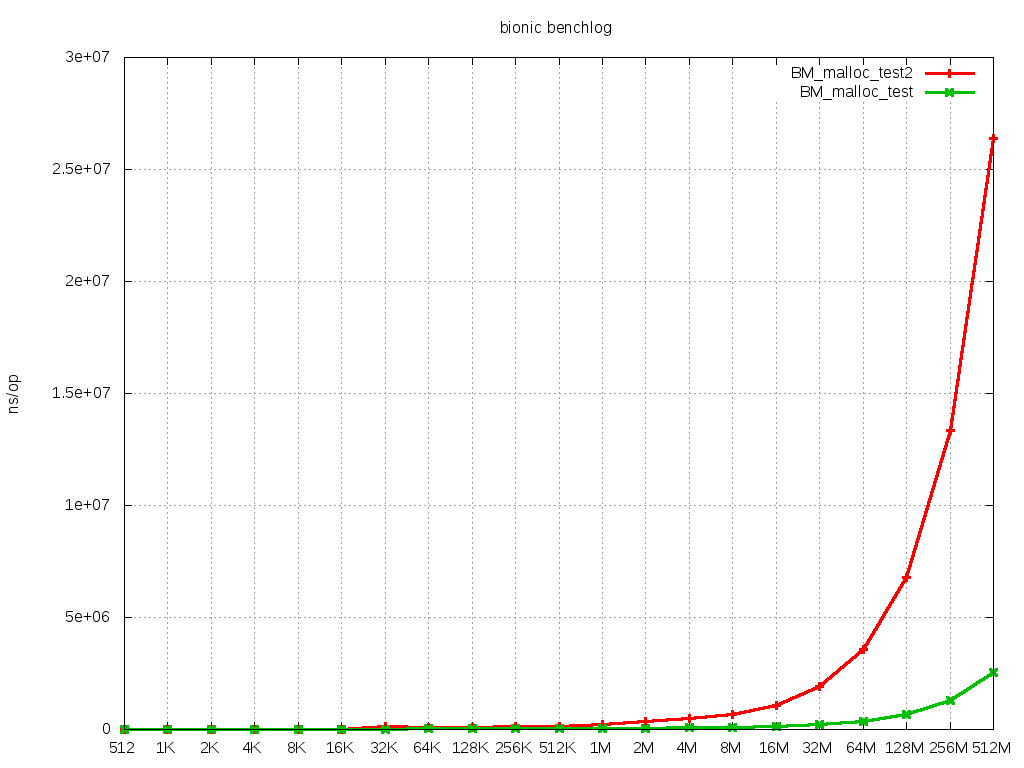
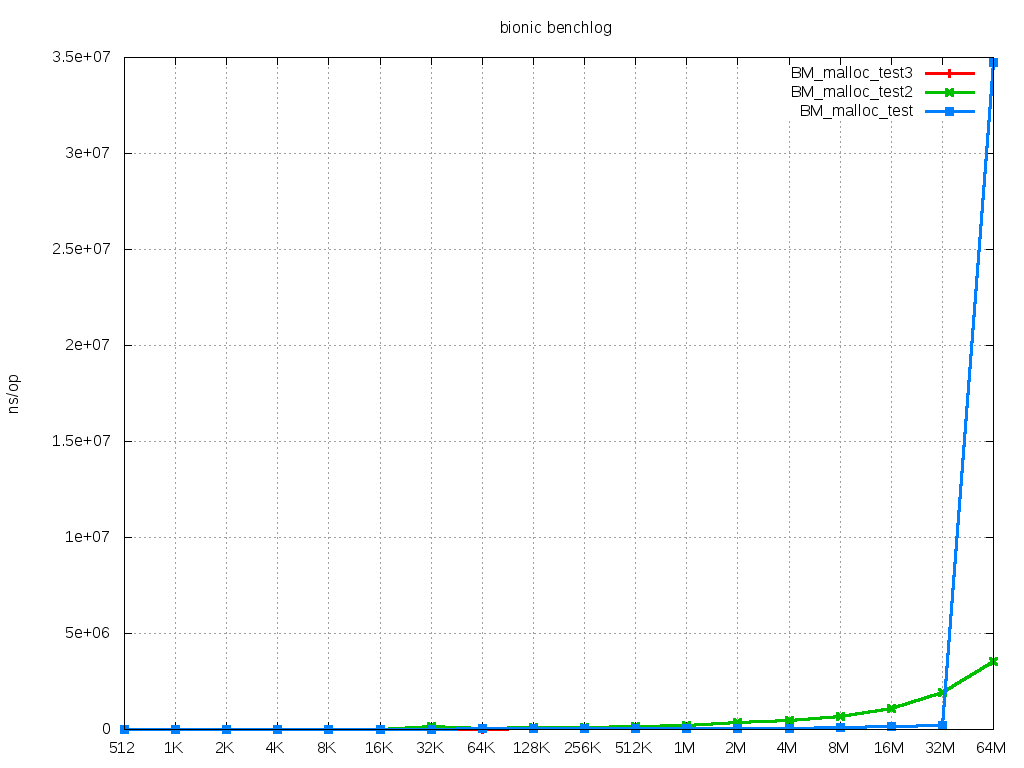
update benchmarks

diff --git a/benchmark_main.cpp b/benchmark_main.cpp
@@ -28,12 +28,16 @@
 static int64_t g_bytes_processed;
 static int64_t g_benchmark_total_time_ns;
 static int64_t g_benchmark_start_time_ns;
+static int64_t *benchmark_each_time_ns;
 
 typedef std::map<std::string, ::testing::Benchmark*> BenchmarkMap;
 typedef BenchmarkMap::iterator BenchmarkMapIt;
 static BenchmarkMap g_benchmarks;
 static int g_name_column_width = 20;
 bool plot = false;
+static int Iterations = 1;
+static int con_iterations = 0;
+static int count = 0;
 
 static int Round(int n) {
   int base = 1;
@@ -73,8 +77,11 @@ bool Benchmark::ShouldRun(int argc, char* argv[]) {
   }
 
   for (int i = 1 ; i < argc ; i++) {
-	if(strcmp(argv[i], "--plot") == 0) 
+	if(strcmp(argv[i], "--plot") == 0) {
 		plot = true;	// With plot arguments.
+		if(argc == 2)
+			return true;
+	}
   }
   // Otherwise, we interpret each argument as a regular expression and
   // see if any of our benchmarks match.
@@ -91,6 +98,7 @@ bool Benchmark::ShouldRun(int argc, char* argv[]) {
       return true;
     }
   }
+  
   return false;
 }
 
@@ -117,6 +125,9 @@ void Benchmark::Run() {
     }
     for (size_t i = 0; i < args_.size(); ++i) {
       RunWithArg(args_[i]);
+	  count = 0;
+	  con_iterations = 0;
+//	  delete benchmark_each_time_ns;
     }
   }
 }
@@ -125,11 +136,17 @@ void Benchmark::RunRepeatedlyWithArg(int iterations, int arg) {
   g_bytes_processed = 0;
   g_benchmark_total_time_ns = 0;
   g_benchmark_start_time_ns = NanoTime();
+
+	count = 0 ;
+	Iterations = iterations;
+	benchmark_each_time_ns = new int64_t[Iterations];
+
   if (fn_ != NULL) {
     fn_(iterations);
   } else {
     fn_range_(iterations, arg);
   }
+
   if (g_benchmark_start_time_ns != 0) {
     g_benchmark_total_time_ns += NanoTime() - g_benchmark_start_time_ns;
   }
@@ -138,6 +155,10 @@ void Benchmark::RunRepeatedlyWithArg(int iterations, int arg) {
 void Benchmark::RunWithArg(int arg) {
   // run once in case it's expensive
   int iterations = 1;
+
+//	Iterations = iterations;
+//	benchmark_each_time_ns = new int64_t[Iterations];
+
   RunRepeatedlyWithArg(iterations, arg);
   while (g_benchmark_total_time_ns < 1e9 && iterations < 1e9) {
     int last = iterations;
@@ -148,6 +169,10 @@ void Benchmark::RunWithArg(int arg) {
     }
     iterations = std::max(last + 1, std::min(iterations + iterations/2, 100*last));
     iterations = Round(iterations);
+
+//	Iterations = iterations;
+//	benchmark_each_time_ns = new int64_t[Iterations];
+
     RunRepeatedlyWithArg(iterations, arg);
   }
 
@@ -176,7 +201,13 @@ void Benchmark::RunWithArg(int arg) {
   } else {
     snprintf(full_name, sizeof(full_name), "%s", name_);
   }
+//	printf("before iterations : %d\n", iterations);
 
+	/* calculate standard diviasion. */
+	Standard();
+	iterations = con_iterations;
+
+//	printf("total time ns is %10" PRId64 "\n", g_benchmark_total_time_ns);
   printf("%-*s %10d %10" PRId64 "%s\n", g_name_column_width, full_name,
          iterations, g_benchmark_total_time_ns/iterations, throughput);
 	if(plot)
@@ -192,8 +223,33 @@ void SetBenchmarkBytesProcessed(int64_t x) {
   g_bytes_processed = x;
 }
 
+void StopBenchmarkTimingWithArg(int iters) {
+  if (g_benchmark_start_time_ns != 0) {
+  	double interval = NanoTime() - g_benchmark_start_time_ns;
+  	benchmark_each_time_ns[count] = interval/(double)iters;
+//	printf("each is %10" PRId64 "\n", benchmark_each_time_ns[count]);
+	count ++;
+    g_benchmark_total_time_ns += interval/(double)iters;
+//	g_benchmark_total_time_ns /= iters;
+  }
+  g_benchmark_start_time_ns = 0;
+}
+
+void StopBenchmarkTimingWithStd() {
+  if (g_benchmark_start_time_ns != 0) {
+  
+  	double interval = NanoTime() - g_benchmark_start_time_ns;
+  	benchmark_each_time_ns[count] = interval;
+//	printf("each is %10" PRId64 "\n", benchmark_each_time_ns[count]);
+    g_benchmark_total_time_ns += NanoTime() - g_benchmark_start_time_ns;
+	count++;
+  }
+  g_benchmark_start_time_ns = 0;
+}
+
 void StopBenchmarkTiming() {
   if (g_benchmark_start_time_ns != 0) {
+  
     g_benchmark_total_time_ns += NanoTime() - g_benchmark_start_time_ns;
   }
   g_benchmark_start_time_ns = 0;
@@ -203,6 +259,40 @@ void StartBenchmarkTiming() {
   if (g_benchmark_start_time_ns == 0) {
     g_benchmark_start_time_ns = NanoTime();
   }
+}
+
+/* Calculate standard diviation. */
+void Standard() {
+	int i;
+	double average = 0, standard = 0, sigma = 0, value = 0;
+	average = g_benchmark_total_time_ns/Iterations;
+	
+	for(i = 0 ; i < Iterations ; i++) {
+		standard = benchmark_each_time_ns[i] - average;
+		standard *= standard;
+		sigma += standard;
+	}
+	sigma /= Iterations;
+	value = sqrt(sigma);
+//	printf("The average is %f, standard deviation is %f\n", average, value);
+	Confidence(average, value);
+}
+
+/* Take the value between 95% confidence level. */
+void Confidence(double average, double value) {
+	int i;
+	int64_t max = average + 2*value;		
+	int64_t min = average - 2*value;
+
+	g_benchmark_total_time_ns = 0;
+	for(i = 0 ; i<Iterations ; i++) {
+		if(benchmark_each_time_ns[i]<max && benchmark_each_time_ns[i]>min) {
+			g_benchmark_total_time_ns += benchmark_each_time_ns[i];
+			con_iterations++;
+//			printf("total is %10" PRId64 "\n", g_benchmark_total_time_ns);
+		}
+	}
+//	printf("con_iterations is %d\n", con_iterations);
 }
 
 int main(int argc, char* argv[]) {

diff --git a/malloc_benchmark.cpp b/malloc_benchmark.cpp
@@ -20,60 +20,77 @@
 
 #define KB 1024
 #define MB 1024*KB
+#define N_ELEMENTS 10
 
 #define AT_COMMON_SIZES \
 	Arg(512)->Arg(1*KB)->Arg(2*KB)->Arg(4*KB)->Arg(8*KB)->Arg(16*KB)->Arg(32*KB)->Arg(64*KB)->Arg(128*KB)->Arg(256*KB)->Arg(512*KB)-> \
-	Arg(1*MB)->Arg(2*MB)->Arg(4*MB)->Arg(8*MB)->Arg(16*MB)->Arg(32*MB)->Arg(64*MB)->Arg(128*MB)->Arg(256*MB)->Arg(512*MB)
+	Arg(1*MB)->Arg(2*MB)->Arg(4*MB)->Arg(8*MB)->Arg(16*MB)->Arg(32*MB)->Arg(64*MB)->Arg(128*MB)->Arg(256*MB)
 
+#define AT_CONTINUOUS_SIZES \
+	Arg(512)->Arg(1*KB)->Arg(2*KB)->Arg(4*KB)->Arg(8*KB)->Arg(16*KB)->Arg(32*KB)->Arg(64*KB)->Arg(128*KB)->Arg(256*KB)->Arg(512*KB)-> \
+	Arg(1*MB)->Arg(2*MB)->Arg(4*MB)->Arg(8*MB)->Arg(16*MB)->Arg(32*MB)->Arg(64*MB)->Arg(128*MB)
 
 //static unsigned size = 512;
 
 static void BM_malloc_test(int iters, int chunk_size) {
 	unsigned request_size = chunk_size;
 
-	StartBenchmarkTiming();
+//	StartBenchmarkTiming();
 
     for (int i = 0; i < iters; i++) {
+		StartBenchmarkTiming();
+
         void * buf;
         buf = malloc(request_size);
         free(buf);
-    }
 
-	StopBenchmarkTiming();
+		StopBenchmarkTimingWithStd();
+    }
+//	StopBenchmarkTimingWithStd();
+//	StopBenchmarkTiming();
 }
 BENCHMARK(BM_malloc_test)->AT_COMMON_SIZES;
 
 static void BM_malloc_test2(int iters, int chunk_size) {
 	unsigned request_size = chunk_size;
 
-	StartBenchmarkTiming();
 
     for (int i = 0; i < iters; i++) {
+		StartBenchmarkTiming();
+
         void * buf;
         buf = malloc(request_size);
         buf = realloc(buf, request_size*2);
         free(buf);
+		
+		StopBenchmarkTimingWithStd();
     }
-
-	StopBenchmarkTiming();
+	
+//	StopBenchmarkTimingWithStd();
+//	StopBenchmarkTiming();
 }
 BENCHMARK(BM_malloc_test2)->AT_COMMON_SIZES;
 
-/*
+
 static void BM_malloc_test3(int iters, int chunk_size) {
-	unsigned request_size = chunk_size;
+	int request_size = chunk_size;
+	int *buf = new int[N_ELEMENTS];
 
-	StartBenchmarkTiming();
+	for(int i = 0 ; i < iters ; i ++) {
 
-	for (int j = 0; j < iters; j++) {
-		void * buf;
-		buf = malloc(request_size);
-		//			buf = realloc(buf, request_size*i*2);
-		free(buf);
+		StartBenchmarkTiming();
+		for (int j = 0 ; j < N_ELEMENTS ; j++)
+			buf[j] = (int)malloc(request_size);
+
+		for (int k = 0 ; k < N_ELEMENTS ; k++)
+			free((void *)buf[k]);	
+
+		StopBenchmarkTimingWithArg(N_ELEMENTS);
 	}
-
-	StopBenchmarkTiming();
+//	StopBenchmarkTimingWithArg(N_ELEMENTS);
+//	StopBenchmarkTiming();
 
 }
-BENCHMARK(BM_malloc_test3)->AT_COMMON_SIZES;
-*/
+BENCHMARK(BM_malloc_test3)->AT_CONTINUOUS_SIZES;
+
+

diff --git a/benchmark.h b/benchmark.h
@@ -55,6 +55,10 @@ class Benchmark {
 void SetBenchmarkBytesProcessed(int64_t);
 void StopBenchmarkTiming();
 void StartBenchmarkTiming();
+void StopBenchmarkTimingWithStd();
+void StopBenchmarkTimingWithArg(int);
+void Standard();
+void Confidence(double, double);
 
 #define BENCHMARK(f) \
     static ::testing::Benchmark* _benchmark_##f __attribute__((unused)) = \
